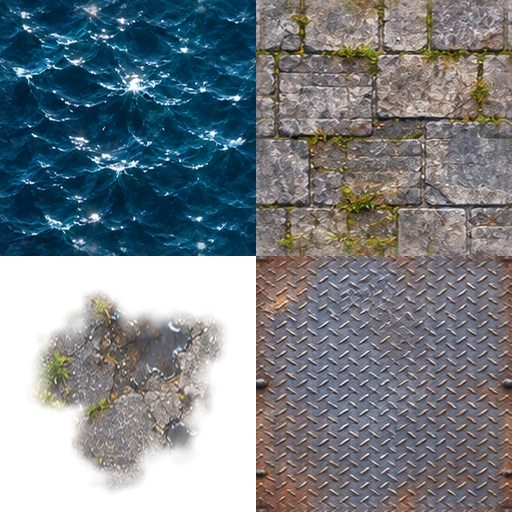
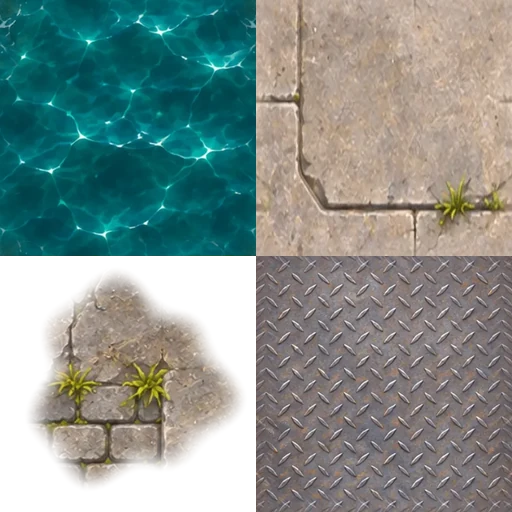
Use the four supplied environment art sheets and align toy-pool palette

diff --git a/tests/phaser/kidsRoomEnvironment.test.ts b/tests/phaser/kidsRoomEnvironment.test.ts
@@ -66,13 +66,13 @@ describe("Kids' Room environment", () => {
     }
   })
 
-  it('renders a recognizable royal-blue carpet and contrasting comforter folds in both lighting modes', () => {
+  it('renders a recognizable royal-blue carpet and contrasting foam mats in both lighting modes', () => {
     const day = getTrackEnvironment('kids-room').day
     const night = getTrackEnvironment('kids-room').night
     expect(day.raceGround).toBe('#2651b1')
     expect(day.editorGround).toBe(day.flyoverGround)
     expect(night.raceGround).toBe('#122858')
-    expect(day.hillPlateau).toBe(0xb66b72)
+    expect(day.hillPlateau).toBe(0xdd579b)
     const fibers = getTrackEnvironment('kids-room').groundArt(2, false)
     expect(fibers.length).toBeGreaterThan(1000)
     expect(fibers).toEqual(getTrackEnvironment('kids-room').groundArt(2, false))
@@ -121,7 +121,7 @@ describe("Kids' Room environment", () => {
     }
   })
 
-  it('renders juice and carpet hills through the shared terrain primitives', () => {
+  it('renders toy-pool water and foam hills through the shared terrain primitives', () => {
     const palette = getTrackEnvironment('kids-room').day
     const fills: number[] = []
     const strokes: number[] = []
@@ -140,7 +140,7 @@ describe("Kids' Room environment", () => {
     expect(fills).toContain(palette.hillPlateau)
     expect(strokes).toContain(palette.waterRipple)
     expect(strokes).toContain(palette.waterShoreline)
-    expect(palette.flyoverWater).toBe('#b14e68')
+    expect(palette.flyoverWater).toBe('#168bc4')
     expect(getTrackEnvironment('kids-room').night.waterFill).not.toBe(palette.waterFill)
   })
 })

diff --git a/src/presentation/environments/kidsRoom.ts b/src/presentation/environments/kidsRoom.ts
@@ -15,27 +15,27 @@ export const KIDS_ROOM_ENVIRONMENT: TrackEnvironmentDefinition = {
     editorGround: '#2651b1',
     raceGround: '#2651b1',
     flyoverGround: '#2651b1',
-    hillSlope: 0x9d5060,
-    hillPlateau: 0xb66b72,
-    flyoverHill: '#b66b72',
-    shorelineLand: 0x524173,
-    waterFill: 0xb14e68,
-    waterRipple: 0xefb1bd,
-    waterShoreline: 0xffdfdb,
-    flyoverWater: '#b14e68',
+    hillSlope: 0xa82f76,
+    hillPlateau: 0xdd579b,
+    flyoverHill: '#dd579b',
+    shorelineLand: 0x355d99,
+    waterFill: 0x168bc4,
+    waterRipple: 0xa6e5fa,
+    waterShoreline: 0xd6f6ff,
+    flyoverWater: '#168bc4',
   },
   night: {
     editorGround: '#122858',
     raceGround: '#122858',
     flyoverGround: '#122858',
-    hillSlope: 0x543045,
-    hillPlateau: 0x79465c,
-    flyoverHill: '#79465c',
-    shorelineLand: 0x332847,
-    waterFill: 0x6c3453,
-    waterRipple: 0xd090a5,
-    waterShoreline: 0xeac1c8,
-    flyoverWater: '#6c3453',
+    hillSlope: 0x592b55,
+    hillPlateau: 0x87487c,
+    flyoverHill: '#87487c',
+    shorelineLand: 0x203750,
+    waterFill: 0x245c83,
+    waterRipple: 0x82bdd6,
+    waterShoreline: 0xb8ddea,
+    flyoverWater: '#245c83',
   },
   scenery: {
     'kids-blocks': art('Alphabet blocks', 37, (night) => [

diff --git a/src/presentation/environments/bitmapTerrainPalette.ts b/src/presentation/environments/bitmapTerrainPalette.ts
@@ -90,8 +90,8 @@ export const CITY_TERRAIN_ART = {
 
 export const KIDS_ROOM_TERRAIN_ART = {
   day: {
-    outerBank: '#524173', wetBank: '#873d62', deepGlaze: 'rgba(103,22,66,0.36)',
-    shallow: ['#c96987', '#df889e', '#efb1bd'], contact: '#ffdfdb',
+    outerBank: '#355d99', wetBank: '#397da9', deepGlaze: 'rgba(7,54,105,0.24)',
+    shallow: ['#2e9dc8', '#63cbe9', '#a6e5fa'], contact: '#d6f6ff',
     raised: {
       slopeShadow: '67,25,48', slopeLight: '255,232,210',
       slopeShadowStrength: 0.115, slopeLightStrength: 0.075,
@@ -100,8 +100,8 @@ export const KIDS_ROOM_TERRAIN_ART = {
     bankScale: 0.55, shallowScale: 0.42,
   },
   night: {
-    outerBank: '#332847', wetBank: '#563047', deepGlaze: 'rgba(44,12,40,0.42)',
-    shallow: ['#8a456f', '#ae6a8e', '#d090a5'], contact: '#eac1c8',
+    outerBank: '#203750', wetBank: '#2b597d', deepGlaze: 'rgba(5,22,52,0.32)',
+    shallow: ['#28658d', '#4789af', '#82bdd6'], contact: '#b8ddea',
     raised: {
       slopeShadow: '24,14,35', slopeLight: '184,156,176',
       slopeShadowStrength: 0.10, slopeLightStrength: 0.055,

diff --git a/src/presentation/environments/meadowBitmapArt.ts b/src/presentation/environments/meadowBitmapArt.ts
@@ -200,7 +200,7 @@ export function loadEnvironmentBitmapArt(): Promise<void> {
         road: kidsRoads[night ? 'night' : 'day'],
         water: detail.water,
         bridge: detail.bridge,
-        sand: tint(ground, night ? 'rgba(44,17,46,0.58)' : 'rgba(90,25,65,0.52)'),
+        sand: tint(ground, night ? 'rgba(15,37,71,0.52)' : 'rgba(26,77,139,0.40)'),
         patches: [],
         organicGround: { theme: 'kids-room', patch: detail.patch },
         terrainPalette: KIDS_ROOM_TERRAIN_ART[night ? 'night' : 'day'],

diff --git a/tests/phaser/bitmapTerrainPalette.test.ts b/tests/phaser/bitmapTerrainPalette.test.ts
@@ -16,7 +16,7 @@ describe('bitmap terrain profiles', () => {
     }
   })
 
-  it('uses narrow, non-sandy juice rims in both Kids’ Room lighting modes', () => {
+  it('uses narrow, non-sandy toy-pool rims in both Kids’ Room lighting modes', () => {
     for (const lighting of ['day', 'night'] as const) {
       const profile = KIDS_ROOM_TERRAIN_ART[lighting]
       expect(profile.bankScale).toBeGreaterThan(0)

diff --git a/docs/environment-visual-polish.md b/docs/environment-visual-polish.md
@@ -1,11 +1,11 @@
 # Visual polish: generated environment materials
 
 The four locally bundled 512 × 512 alpha WebP atlases each contain four
-256 × 256 cells: water/juice, elevated material, transparent ground patch
-and bridge structure. Source is the generated environment concept artwork,
+256 × 256 cells: water, elevated material, transparent ground patch
+and bridge structure. Source is the four separate user-supplied 1536 × 1536 environment sheets,
 cropped to usable material regions, resized to the target resolution and
 edge-blended offline for the opaque swatches. The ground patches have
-irregular feathered alpha masks. All four files total 343,718 bytes.
+irregular feathered alpha masks. All four files total 231,594 bytes.
 Some source crops are smaller than 256 px; the final cells are 256 px,
 not a claim that each original crop had 256 native pixels.
 
@@ -23,8 +23,8 @@ physics geometry; the authored staircase contours can still be visible.
 Island holes and harbor oil slicks remain. True geometric rounding is
 outside this pass.
 
-Bridge materials use the canonical road quad: textured wood, sandstone,
-steel or toy plastic shoulders, with a subtle material glaze on standard
+Bridge materials use the canonical road quad: textured timber (Meadow and Desert),
+steel (City Port), or toy timber (Kids’ Room) shoulders, with a subtle material glaze on standard
 elevated decks only. Mud and ice retain their original road material.
 Existing fascia relief, rail highlights, markings, ramps, shadows and
 occlusion remain. The shared bitmap tiles render in editor, race and
@@ -36,3 +36,11 @@ require measurement. Tests cover atlas dimensions, deterministic patch
 placement, actual bitmap draws and bounded fascia bands. No physics,
 AI, save data, terrain height or hazard footprint changes. Rollback is
 presentation-only.
+
+The supplied Kids’ Room reference replaces berry-colored liquid and quilt
+with blue toy-pool water and pink foam-mat material. Bitmap and vector
+fallback palettes follow that art direction; the original royal-blue
+carpet, road materials, LEGO-style shoulders and authored toys stay intact.
+Crops avoid large baked objects where practical; the artwork is decorative,
+not collision geometry. The source composition of cliffs and puzzle mats is
+not reconstructed as new terrain geometry in this pass.
